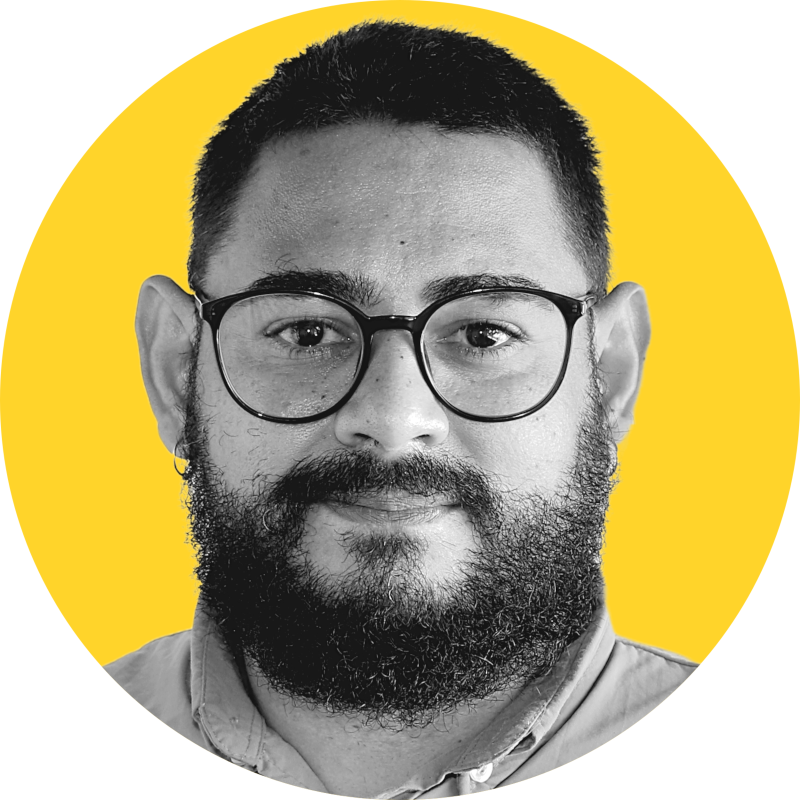
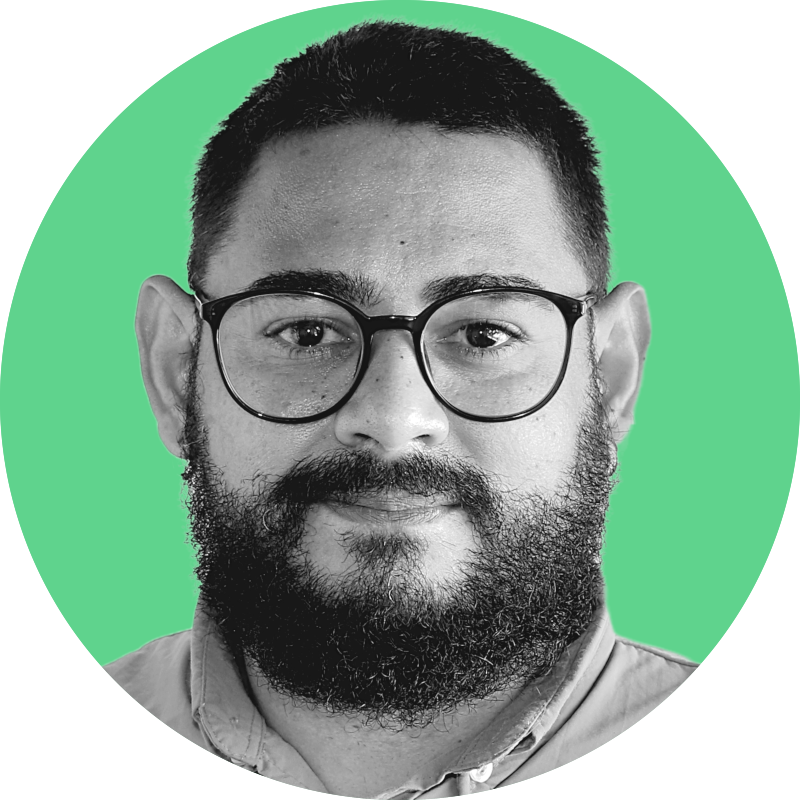
New Photo and CSS

Changed region(s): [[0.0, 0.0, 1.0, 0.8438]]

diff --git a/_site/index.html b/_site/index.html
@@ -1,5 +1,5 @@
 <!DOCTYPE html>
-<html xmlns="http://www.w3.org/1999/xhtml" lang="en" xml:lang="en"><head>
+<html xmlns="http://www.w3.org/1999/xhtml" lang="pt-BR" xml:lang="pt-BR"><head>
 
 <meta charset="utf-8">
 <meta name="generator" content="quarto-1.2.280">
@@ -49,15 +49,15 @@ ul.task-list li input[type="checkbox"] {
   "type": "overlay",
   "limit": 20,
   "language": {
-    "search-no-results-text": "No results",
-    "search-matching-documents-text": "matching documents",
-    "search-copy-link-title": "Copy link to search",
-    "search-hide-matches-text": "Hide additional matches",
-    "search-more-match-text": "more match in this document",
-    "search-more-matches-text": "more matches in this document",
-    "search-clear-button-title": "Clear",
-    "search-detached-cancel-button-title": "Cancel",
-    "search-submit-button-title": "Submit"
+    "search-no-results-text": "Nenhum resultado",
+    "search-matching-documents-text": "documentos correspondentes",
+    "search-copy-link-title": "Copiar link para a busca",
+    "search-hide-matches-text": "Esconder correspondências adicionais",
+    "search-more-match-text": "mais correspondência neste documento",
+    "search-more-matches-text": "mais correspondências neste documento",
+    "search-clear-button-title": "Limpar",
+    "search-detached-cancel-button-title": "Cancelar",
+    "search-submit-button-title": "Enviar"
   }
 }</script>
 <script>
@@ -95,8 +95,9 @@ ul.task-list li input[type="checkbox"] {
 <link rel="stylesheet" href="styles.css">
 <meta name="twitter:title" content="PAULO BARROS - “Todos nós por natureza desejamos conhecimento.”">
 <meta name="twitter:description" content="- Aristóteles">
+<meta name="twitter:image" content="https://www.paulobarros.com.br/Avatar2023.png">
 <meta name="twitter:creator" content="@pbarrosjr">
-<meta name="twitter:card" content="summary">
+<meta name="twitter:card" content="summary_large_image">
 </head>
 
 <body class="nav-fixed">
@@ -120,7 +121,7 @@ ul.task-list li input[type="checkbox"] {
             <ul class="navbar-nav navbar-nav-scroll ms-auto">
   <li class="nav-item">
     <a class="nav-link" href="./about.html">
- <span class="menu-text">About</span></a>
+ <span class="menu-text">Bio</span></a>
   </li>  
   <li class="nav-item dropdown ">
     <a class="nav-link dropdown-toggle" href="#" id="nav-menu-posts" role="button" data-bs-toggle="dropdown" aria-expanded="false">
@@ -176,7 +177,7 @@ ul.task-list li input[type="checkbox"] {
 <!-- margin-sidebar -->
     <div id="quarto-margin-sidebar" class="sidebar margin-sidebar">
         
-    <h5 class="quarto-listing-category-title">Categories</h5><div class="quarto-listing-category category-default"><div class="category" data-category="">All <span class="quarto-category-count">(1)</span></div><div class="category" data-category="ABNT">ABNT <span class="quarto-category-count">(1)</span></div><div class="category" data-category="Rmarkdown">Rmarkdown <span class="quarto-category-count">(1)</span></div></div></div>
+    <h5 class="quarto-listing-category-title">Categorias</h5><div class="quarto-listing-category category-default"><div class="category" data-category="">Tudo <span class="quarto-category-count">(1)</span></div><div class="category" data-category="ABNT">ABNT <span class="quarto-category-count">(1)</span></div><div class="category" data-category="Rmarkdown">Rmarkdown <span class="quarto-category-count">(1)</span></div></div></div>
 <!-- main -->
 <main class="content quarto-banner-title-block column-page-left" id="quarto-document-content">
 
@@ -187,20 +188,20 @@ ul.task-list li input[type="checkbox"] {
 <div class="listing-actions-group">
    <div class="input-group input-group-sm quarto-listing-sort">
      <span class="input-group-text"><i class="bi bi-sort-down"></i></span>
-     <select id="listing-blog-pt-sort" class="form-select" aria-label="Order By" onchange="window['quarto-listings']['listing-blog-pt'].sort(this.options[this.selectedIndex].value, { order: this.options[this.selectedIndex].getAttribute('data-direction')})">
-       <option value="" disabled="" selected="" hidden="">Order By</option>
-       <option value="index" data-direction="asc">Default</option>
+     <select id="listing-blog-pt-sort" class="form-select" aria-label="Ordenar por" onchange="window['quarto-listings']['listing-blog-pt'].sort(this.options[this.selectedIndex].value, { order: this.options[this.selectedIndex].getAttribute('data-direction')})">
+       <option value="" disabled="" selected="" hidden="">Ordenar por</option>
+       <option value="index" data-direction="asc">Pré-selecionado</option>
          <option value="listing-title" data-direction="asc">
-          Title
+          Título
         </option>
          <option value="listing-date-sort" data-direction="asc">
-          Date - Oldest
+          Data - Mais velho
         </option>
          <option value="listing-date-sort" data-direction="desc">
-          Date - Newest
+          Data - O mais novo
         </option>
          <option value="listing-author" data-direction="asc">
-          Author
+          Autor
         </option>
      </select>
   </div>
@@ -236,20 +237,20 @@ ABNT
 <div class="metadata">
 <a href="./posts/2021-07-15_manuscritos_cientificos_rmarkdown/pt/index.html">
 <div class="listing-date">
-Jul 15, 2021
+15 de jul. de 2021
 </div>
 <div class="listing-author">
 Paulo Barros
 </div>
 <div class="listing-reading-time">
-15 min
+15 minutos
 </div>
 </a>
 </div>
 </div>
 </div>
 <div class="listing-no-matching d-none">
-No matching items
+Nenhum item correspondente
 </div>
 </div>
 
@@ -297,12 +298,12 @@ window.document.addEventListener("DOMContentLoaded", function (event) {
     // flash "checked"
     button.classList.add('code-copy-button-checked');
     var currentTitle = button.getAttribute("title");
-    button.setAttribute("title", "Copied!");
+    button.setAttribute("title", "Copiada");
     let tooltip;
     if (window.bootstrap) {
       button.setAttribute("data-bs-toggle", "tooltip");
       button.setAttribute("data-bs-placement", "left");
-      button.setAttribute("data-bs-title", "Copied!");
+      button.setAttribute("data-bs-title", "Copiada");
       tooltip = new bootstrap.Tooltip(button, 
         { trigger: "manual", 
           customClass: "code-copy-button-tooltip",

diff --git a/_site/posts/2021-07-15_manuscritos_cientificos_rmarkdown/pt/index.html b/_site/posts/2021-07-15_manuscritos_cientificos_rmarkdown/pt/index.html
@@ -146,7 +146,7 @@ div.csl-indent {
 <link rel="stylesheet" href="../../../styles.css">
 <meta name="twitter:title" content="PAULO BARROS - Gerando manuscritos acadêmicos com referências utilizando Rmarkdown">
 <meta name="twitter:description" content="Gerenciar referências não precisa ser uma dor de cabeça!">
-<meta name="twitter:image" content="https://paulobarros.com.br/posts/2021-07-15_manuscritos_cientificos_rmarkdown/pt/img/postthumb.jpg">
+<meta name="twitter:image" content="https://www.paulobarros.com.br/Avatar2023.png">
 <meta name="twitter:creator" content="@pbarrosjr">
 <meta name="twitter:card" content="summary_large_image">
 </head>
@@ -172,7 +172,7 @@ div.csl-indent {
             <ul class="navbar-nav navbar-nav-scroll ms-auto">
   <li class="nav-item">
     <a class="nav-link" href="../../../about.html">
- <span class="menu-text">About</span></a>
+ <span class="menu-text">Bio</span></a>
   </li>  
   <li class="nav-item dropdown ">
     <a class="nav-link dropdown-toggle" href="#" id="nav-menu-posts" role="button" data-bs-toggle="dropdown" aria-expanded="false">

diff --git a/_site/posts/pt.html b/_site/posts/pt.html
@@ -95,8 +95,9 @@ ul.task-list li input[type="checkbox"] {
 <link rel="stylesheet" href="../styles.css">
 <meta name="twitter:title" content="PAULO BARROS - Paulo Barros">
 <meta name="twitter:description" content="Biologia &amp; Ciência de Dados">
+<meta name="twitter:image" content="https://www.paulobarros.com.br/Avatar2023.png">
 <meta name="twitter:creator" content="@pbarrosjr">
-<meta name="twitter:card" content="summary">
+<meta name="twitter:card" content="summary_large_image">
 </head>
 
 <body class="floating nav-fixed">
@@ -120,7 +121,7 @@ ul.task-list li input[type="checkbox"] {
             <ul class="navbar-nav navbar-nav-scroll ms-auto">
   <li class="nav-item">
     <a class="nav-link" href="../about.html">
- <span class="menu-text">About</span></a>
+ <span class="menu-text">Bio</span></a>
   </li>  
   <li class="nav-item dropdown ">
     <a class="nav-link dropdown-toggle" href="#" id="nav-menu-posts" role="button" data-bs-toggle="dropdown" aria-expanded="false">

diff --git a/_site/index-us.html b/_site/index-us.html
@@ -95,8 +95,9 @@ ul.task-list li input[type="checkbox"] {
 <link rel="stylesheet" href="styles.css">
 <meta name="twitter:title" content="PAULO BARROS - “All men by nature desire knowledge”">
 <meta name="twitter:description" content="- Aristotle">
+<meta name="twitter:image" content="https://www.paulobarros.com.br/Avatar2023.png">
 <meta name="twitter:creator" content="@pbarrosjr">
-<meta name="twitter:card" content="summary">
+<meta name="twitter:card" content="summary_large_image">
 </head>
 
 <body class="nav-fixed">
@@ -120,7 +121,7 @@ ul.task-list li input[type="checkbox"] {
             <ul class="navbar-nav navbar-nav-scroll ms-auto">
   <li class="nav-item">
     <a class="nav-link" href="./about.html">
- <span class="menu-text">About</span></a>
+ <span class="menu-text">Bio</span></a>
   </li>  
   <li class="nav-item dropdown ">
     <a class="nav-link dropdown-toggle" href="#" id="nav-menu-posts" role="button" data-bs-toggle="dropdown" aria-expanded="false">

diff --git a/_site/posts/en.html b/_site/posts/en.html
@@ -95,8 +95,9 @@ ul.task-list li input[type="checkbox"] {
 <link rel="stylesheet" href="../styles.css">
 <meta name="twitter:title" content="PAULO BARROS - Paulo Barros">
 <meta name="twitter:description" content="Biology &amp; Data Science">
+<meta name="twitter:image" content="https://www.paulobarros.com.br/Avatar2023.png">
 <meta name="twitter:creator" content="@pbarrosjr">
-<meta name="twitter:card" content="summary">
+<meta name="twitter:card" content="summary_large_image">
 </head>
 
 <body class="floating nav-fixed">
@@ -120,7 +121,7 @@ ul.task-list li input[type="checkbox"] {
             <ul class="navbar-nav navbar-nav-scroll ms-auto">
   <li class="nav-item">
     <a class="nav-link" href="../about.html">
- <span class="menu-text">About</span></a>
+ <span class="menu-text">Bio</span></a>
   </li>  
   <li class="nav-item dropdown ">
     <a class="nav-link dropdown-toggle" href="#" id="nav-menu-posts" role="button" data-bs-toggle="dropdown" aria-expanded="false">

diff --git a/_site/styles.css b/_site/styles.css
@@ -69,11 +69,11 @@ code {
     font-size: .65em;
     text-transform: uppercase;
     font-weight: bold;
-    border: solid 1px #F4E5C2;
+    border: solid 2px #414141;
     border-radius: 0.65rem;
     opacity: 1;
     color: #2F2D2D;
-    background-color: #F4E5C2;
+    background-color: #84da8f;
     margin: 2px ;
 }
 
@@ -117,11 +117,11 @@ div.quarto-post .listing-categories .listing-category {
     font-size: .65em;
     text-transform: uppercase;
     font-weight: bold;
-    border: solid 1px #F4E5C2;
+    border: solid 1px #dcdddc;
     border-radius: 0.65rem;
     opacity: 1;
     color: #2F2D2D;
-    background-color: #F4E5C2;
+    background-color: #84da8f;
     margin: 2px ;
 }
 

diff --git a/styles.css b/styles.css
@@ -69,11 +69,11 @@ code {
     font-size: .65em;
     text-transform: uppercase;
     font-weight: bold;
-    border: solid 1px #F4E5C2;
+    border: solid 2px #414141;
     border-radius: 0.65rem;
     opacity: 1;
     color: #2F2D2D;
-    background-color: #F4E5C2;
+    background-color: #84da8f;
     margin: 2px ;
 }
 
@@ -117,11 +117,11 @@ div.quarto-post .listing-categories .listing-category {
     font-size: .65em;
     text-transform: uppercase;
     font-weight: bold;
-    border: solid 1px #F4E5C2;
+    border: solid 1px #dcdddc;
     border-radius: 0.65rem;
     opacity: 1;
     color: #2F2D2D;
-    background-color: #F4E5C2;
+    background-color: #84da8f;
     margin: 2px ;
 }
 

diff --git a/_site/about.html b/_site/about.html
@@ -83,7 +83,7 @@ ul.task-list li input[type="checkbox"] {
             <ul class="navbar-nav navbar-nav-scroll ms-auto">
   <li class="nav-item">
     <a class="nav-link active" href="./about.html" aria-current="page">
- <span class="menu-text">About</span></a>
+ <span class="menu-text">Bio</span></a>
   </li>  
   <li class="nav-item dropdown ">
     <a class="nav-link dropdown-toggle" href="#" id="nav-menu-posts" role="button" data-bs-toggle="dropdown" aria-expanded="false">
